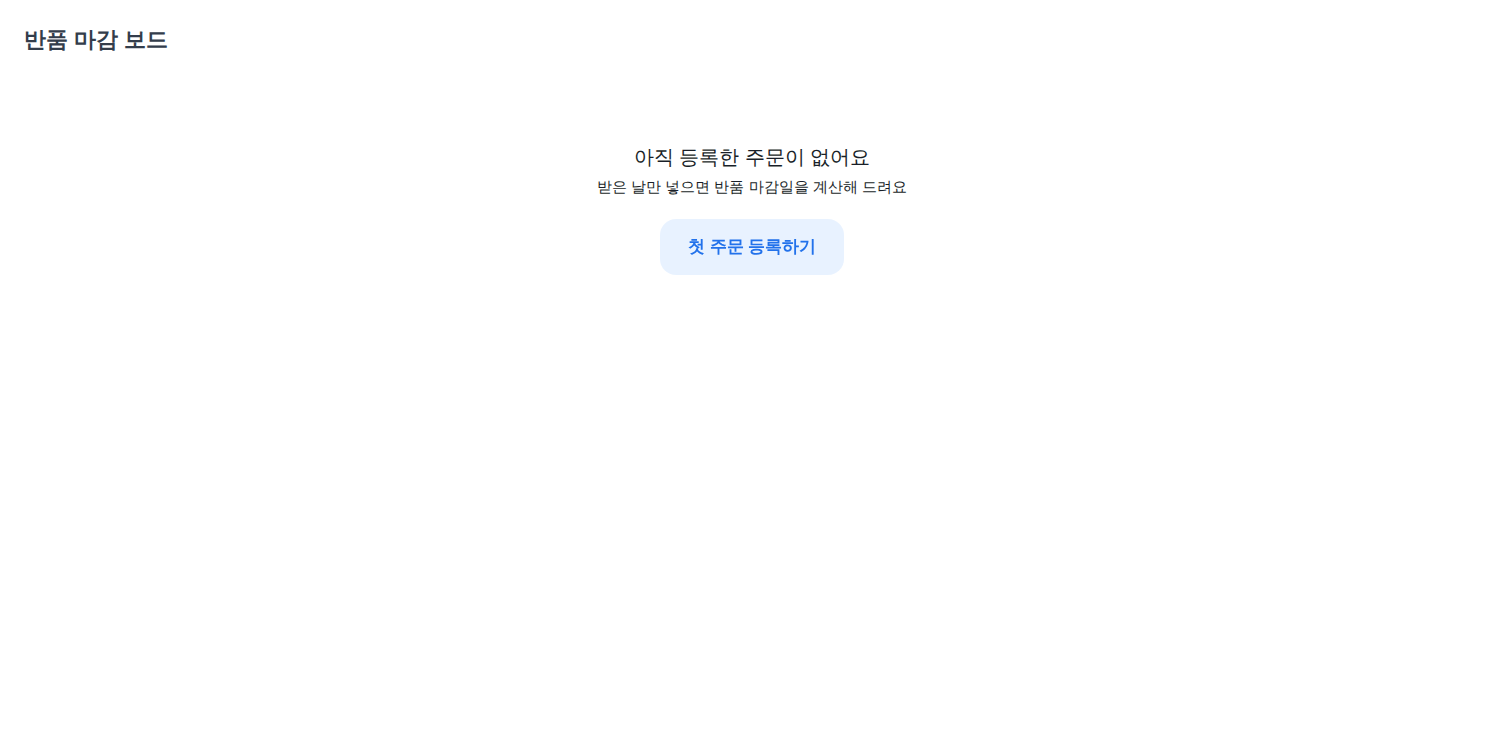
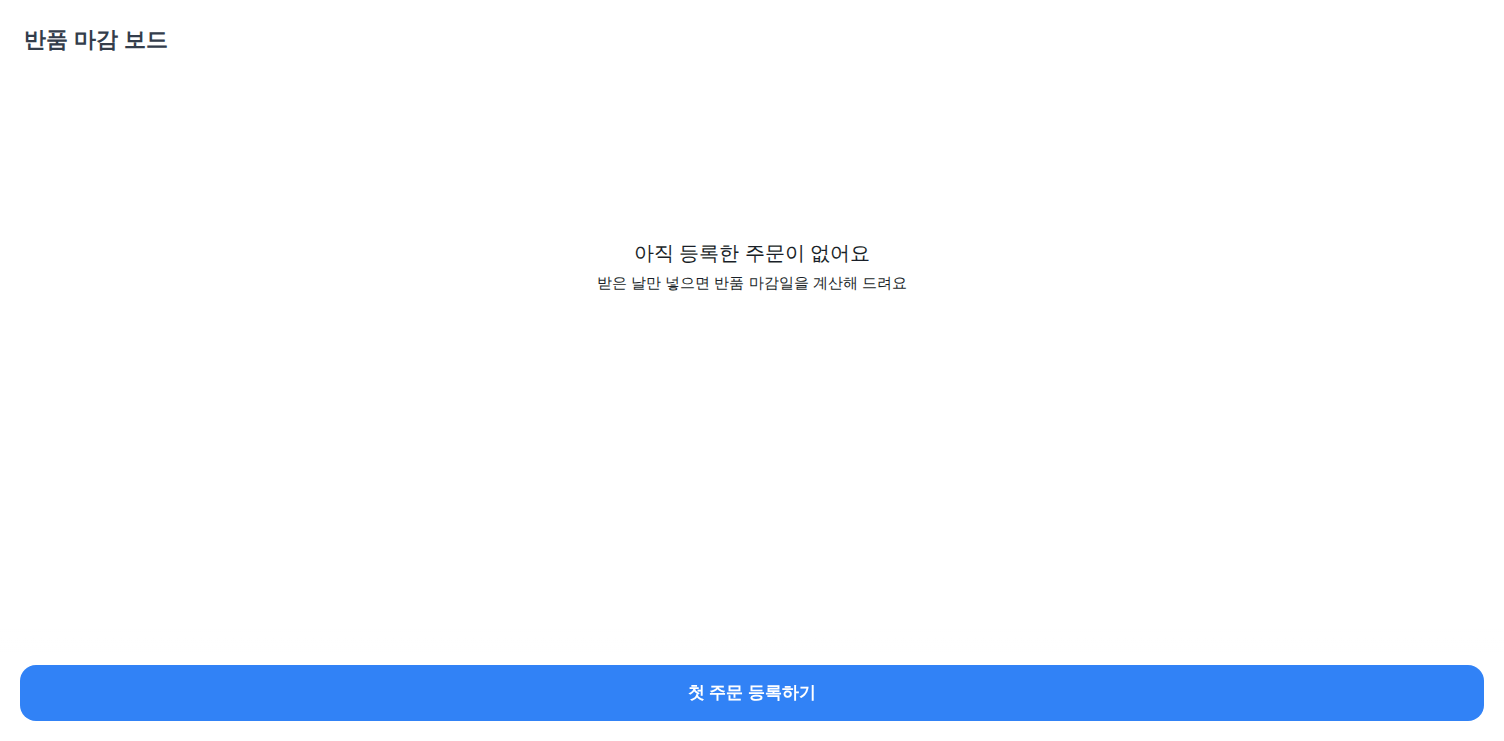
fix: visual UI improvements (round 2)

Changed region(s): [[0.0, 0.9001, 1.0, 0.9933], [0.4062, 0.1862, 0.5938, 0.2794], [0.375, 0.3104, 0.5938, 0.4035]]

diff --git a/src/pages/Home.tsx b/src/pages/Home.tsx
@@ -1,6 +1,6 @@
 import { Fragment, useCallback, useEffect, useMemo, useState } from 'react';
 import { useLinkClickHandler } from 'react-router-dom';
-import { Badge, Button, ListRow, Paragraph, Spacing, Tab, Top } from '@toss/tds-mobile';
+import { Asset, Badge, Button, ListRow, Paragraph, Spacing, Tab, Top } from '@toss/tds-mobile';
 import { generateHapticFeedback } from '@apps-in-toss/web-framework';
 import { ScreenScaffold } from '../components/ScreenScaffold';
 import { SummaryHero } from '../components/SummaryHero';
@@ -213,9 +213,10 @@ export default function Home() {
         top={top}
         bottom={<SubmitFooter label="첫 주문 등록하기" onClick={openSheet} />}
       >
-        <Spacing size={96} />
+        <Spacing size={48} />
         <EmptyState
           testId="home-empty"
+          icon={<Asset.ContentIcon name="icon-plus-small-mono" alt="" />}
           title="아직 등록한 주문이 없어요"
           description="받은 날만 넣으면 반품 마감일을 계산해 드려요"
         />

diff --git a/src/components/StateView.tsx b/src/components/StateView.tsx
@@ -33,15 +33,16 @@ export function EmptyState({
         textAlign: "center",
         padding: "48px 24px",
         wordBreak: "keep-all",
+        textWrap: "balance",
       }}
     >
       {icon}
       {icon ? <Spacing size={12} /> : null}
-      <Paragraph.Text typography="t4">{title}</Paragraph.Text>
+      <Paragraph.Text typography="t3">{title}</Paragraph.Text>
       {description ? (
         <>
           <Spacing size={4} />
-          <Paragraph.Text typography="t6">{description}</Paragraph.Text>
+          <Paragraph.Text typography="t6" color="var(--adaptiveGrey600)">{description}</Paragraph.Text>
         </>
       ) : null}
       {action ? (
